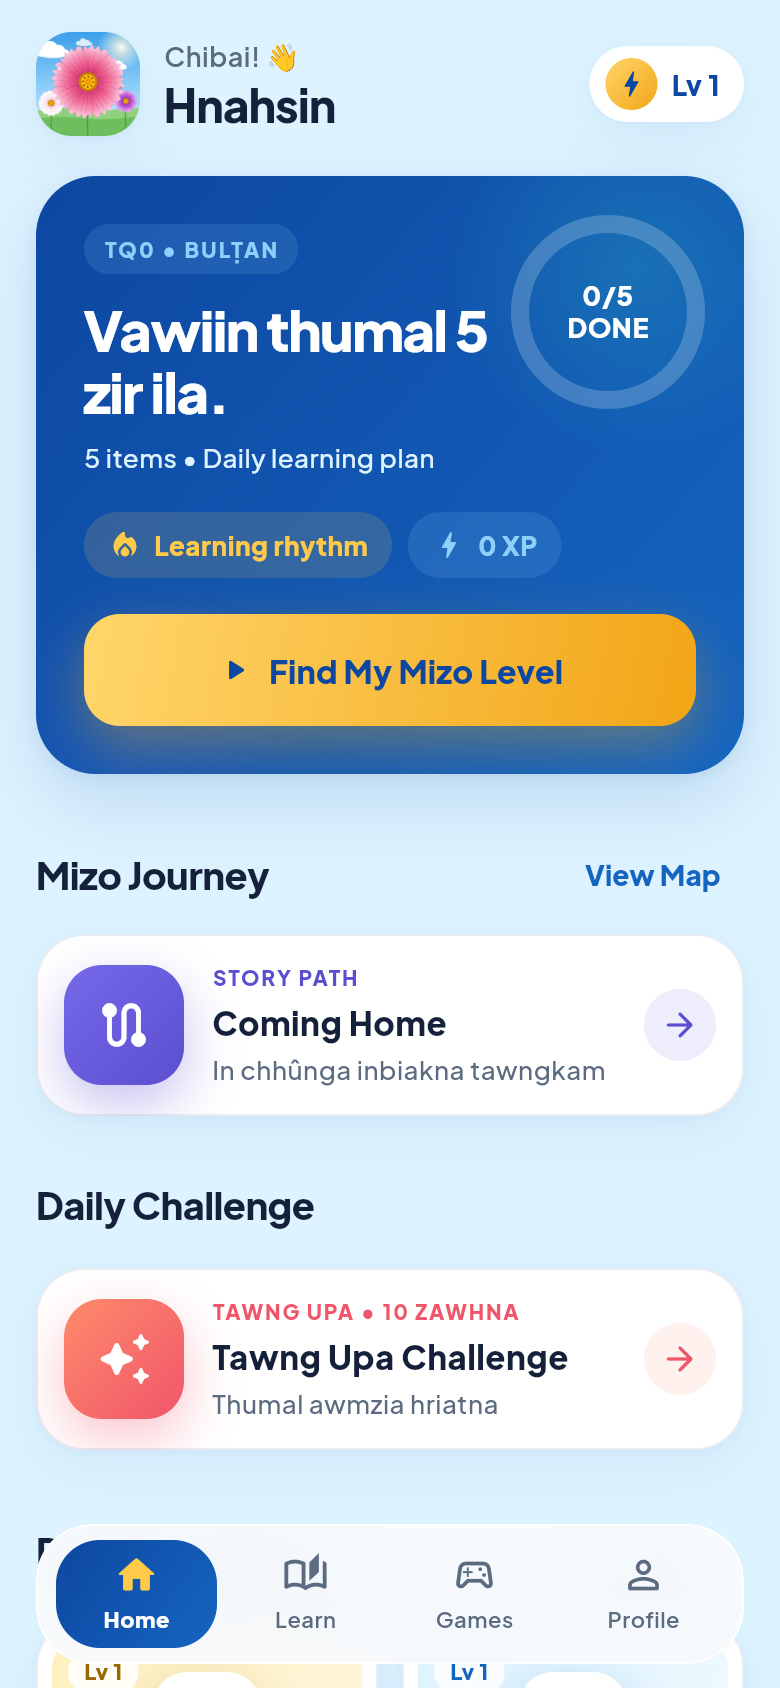
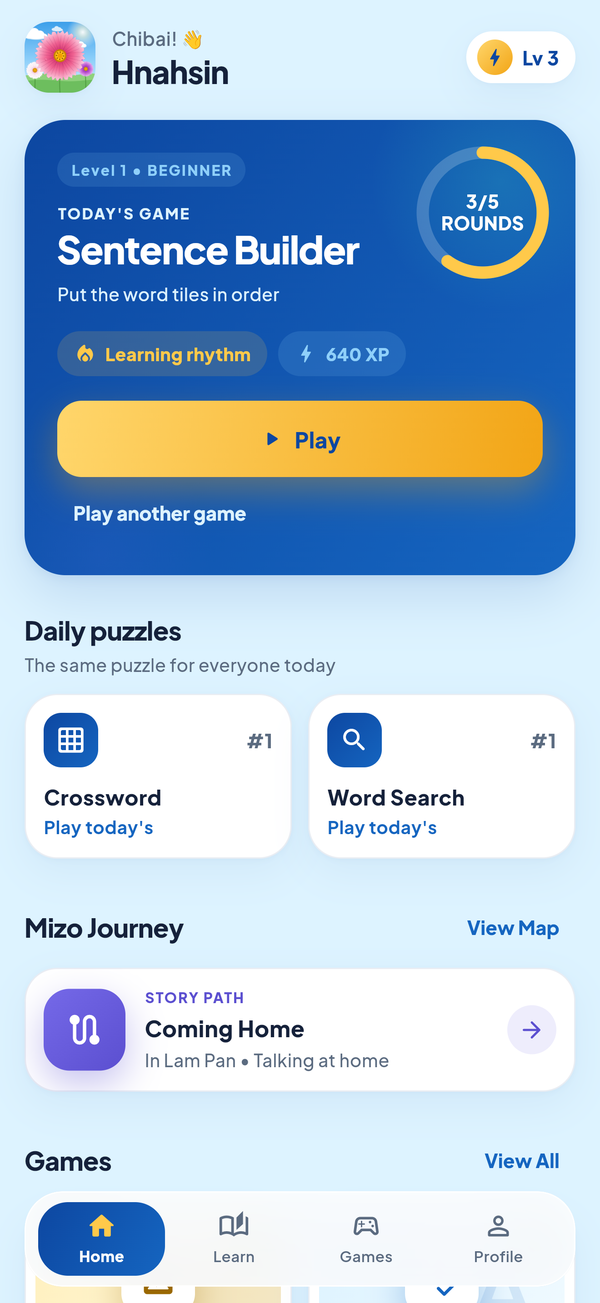
Bring the README up to date for 0.15.0
Describe the app as English-labelled word games with the Mizo in the
play, and list what's new: how-to demos, daily puzzles, word cards,
sound and motion, the content counts and Word Chain's word list.
Credit the sentence datasets, the dictionary and the sound effects,
and swap in screenshots of the current app.

diff --git a/README.md b/README.md
@@ -4,24 +4,38 @@
 
 **Khelh la, zir la, thiam rawh.** — *Play, learn, master.*
 
-Hnahsin (*Mizo Thumal Infiamna*) is a game-first app for learning the **Mizo language** (lus), for
-learners from age 5 to adults. It works offline on phones, and every word,
-question and picture is written and reviewed by people in a **Google Sheet**.
+Hnahsin (*Mizo Thumal Infiamna*) is a set of word games for learning the
+**Mizo language** (lus), for players from age 5 to adults. The buttons and
+instructions are in simple English so anyone can play; the Mizo is in the
+games themselves, so players pick it up as they play. It works offline on
+phones, and every word, question and sentence is edited by people in a
+**Google Sheet**.
 
 <p align="center">
-  <img src="docs/screenshots/home.png" width="200" alt="Home screen with the daily lesson">
-  <img src="docs/screenshots/games.png" width="200" alt="Games screen">
-  <img src="docs/screenshots/picture-match.png" width="200" alt="Picture Match game">
-  <img src="docs/screenshots/thumal-kawp.png" width="200" alt="Thumal Kawp memory game">
+  <img src="docs/screenshots/home.png" width="200" alt="Home with today's game and the daily puzzles">
+  <img src="docs/screenshots/picture-match.png" width="200" alt="Picture Match, answered right">
+  <img src="docs/screenshots/daily-crossword.png" width="200" alt="The daily Crossword">
+  <img src="docs/screenshots/word-cards.png" width="200" alt="The Word Cards album">
 </p>
 
 ## Features
 
 - **8 games** — Picture Match, Spelling, Word Search, Word Chain, Tawng Upa
-  (meaning quiz), Crossword, Thumal Kawp (memory cards) and Sentence Builder.
+  (old sayings), Crossword, Thumal Kawp (memory cards) and Sentence Builder.
+  Each opens with a short looping demo of how to play.
+- **Daily puzzles** — one Crossword and one Word Search a day, the same for
+  everyone, easiest on Monday; the result can be shared without spoiling it.
+- **Word cards** — a sticker book that collects every word the player gets
+  right in two games (gold after four in a row).
 - **Adaptive difficulty** — each game has its own level (1–7) that rises and
-  falls with the learner, aiming for about 78% correct answers.
-- **1,600+ Mizo words** with original meanings, example sentences and pictures.
+  falls with the learner, aiming for about 78% correct answers; words the
+  player misses come back sooner.
+- **Content** — 1,200 Mizo words with meanings, example sentences and
+  pictures, 203 tawng upa, and 383 sentences with English meanings.
+  Word Chain also accepts about 6,000 more Mizo words.
+- **Sound and motion** — sound effects, bounces, confetti; Profile can turn
+  sound off and reduce motion.
+- **English or Mizo labels** — simple English by default, Mizo in Profile.
 - **Offline first** — content packs are verified by SHA-256 and cached on the
   device; progress stays on the device.
 - **Content Sheet** — words, pictures, questions and all game text are edited
@@ -84,10 +98,11 @@ node --test content_studio/test          # content Sheet's pack builder
 lib/            Flutter app (screens, games, adaptive engine, content sync)
 content_studio/ Apps Script for the content Google Sheet (check + publish)
 content/        Source word lists from the Kumtluang and Vartian primers
-assets/         Branding, fonts and bundled illustrations
+assets/         Branding, fonts, illustrations, sound effects, Mizo word list
 design/         Hnahsin logo and icon source art
 docs/           Design system, product notes and project history
-scripts/        Mac diagnostics
+scripts/        Release builds and Mac diagnostics
+tool/           App text rows for the Sheet; the Mizo word list builder
 ```
 
 ## Credits
@@ -95,13 +110,21 @@ scripts/        Mac diagnostics
 - Vocabulary selection is cross-referenced with the Mizoram SCERT *Kumtluang*
   and *Vartian* primers; all definitions and example sentences are original
   (see `content/pilot/kumtluang/README.md`).
+- Sentences: [Mizo-Language-Corpus-4M](https://huggingface.co/datasets/MWirelabs/mizo-language-corpus-4M)
+  by MWireLabs (CC BY 4.0; from IndicNLCorp, FineWeb and DIPR Mizoram) and the
+  [Mizo–English parallel dataset](https://huggingface.co/datasets/hillbyte/mizo-english-parallel-20k)
+  by Hillbyte AI, picked by hand.
+- Word Chain's word list (`assets/mizo_words.txt`, built by
+  `tool/mizo_lexicon.py`) comes from J.F. Laldailova's *English–Lushai
+  Dictionary*, used with its owners' permission.
+- Sound effects were made for Hnahsin (`assets/sounds/`).
 - Font: [Plus Jakarta Sans](https://github.com/tokotype/PlusJakartaSans) (SIL OFL 1.1).
 - Icons: game-icons.net (CC BY 3.0), Tabler (MIT) and Material Design Icons
   (Apache 2.0) — see `assets/illustrations/ATTRIBUTION.md`.
 
 ## License
 
-[MIT](LICENSE) © 2026 Maloma Thado. Third-party fonts and icons keep their own
-licences (listed above).
+[MIT](LICENSE) © 2026 Maloma Thado. Third-party fonts, icons and content keep
+their own licences (listed above).
 
 Development history and earlier phase notes: [`docs/PROJECT_HISTORY.md`](docs/PROJECT_HISTORY.md).
